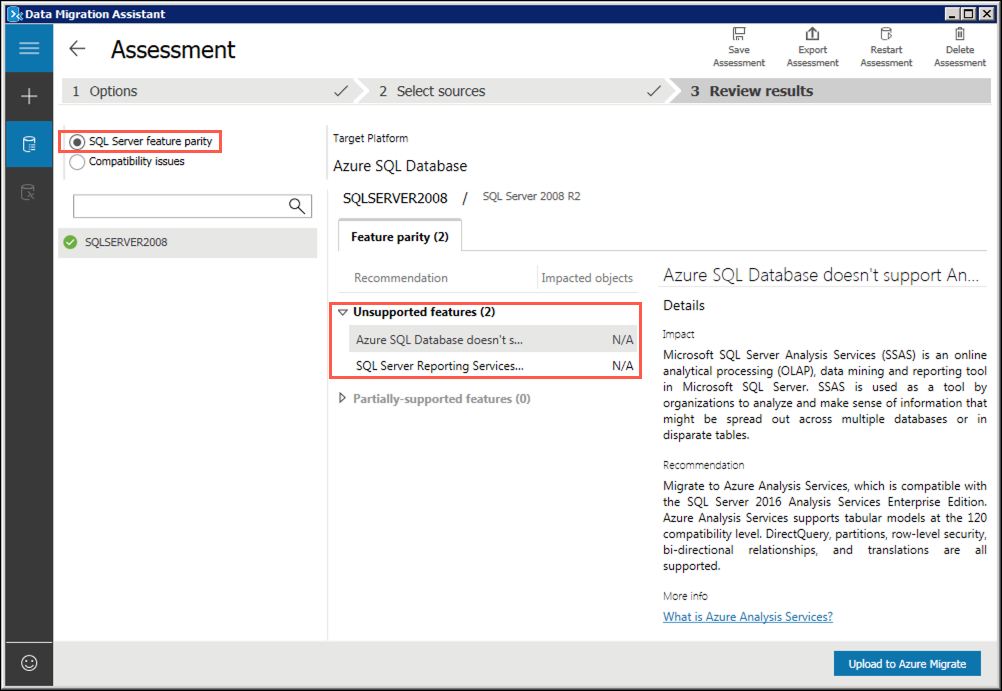
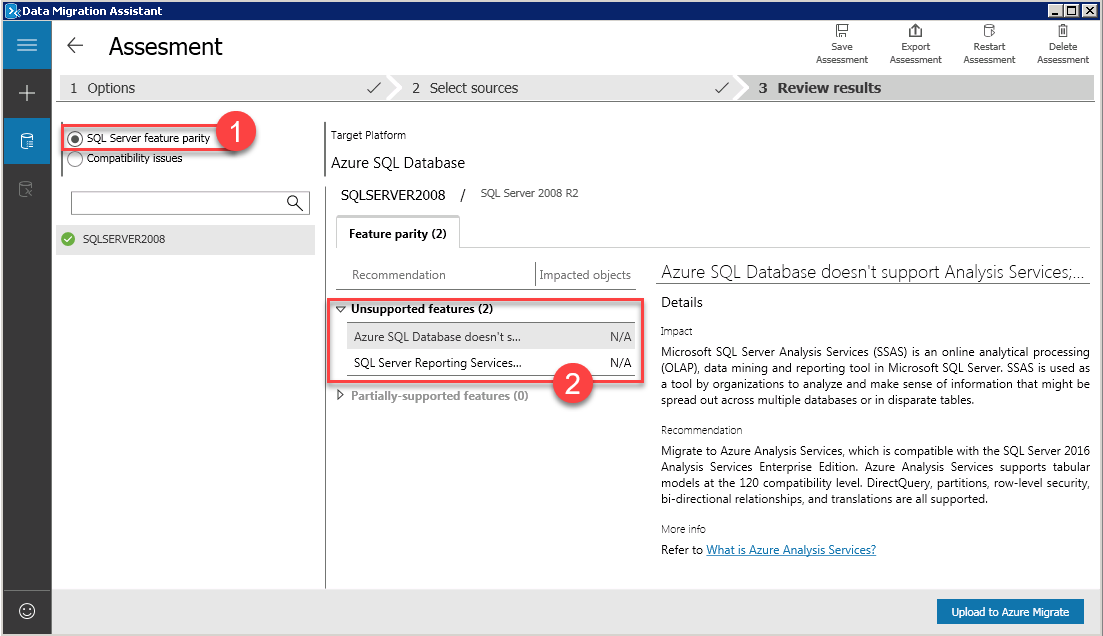
Azure Migrate Database Assessment Complete

Changed region(s): [[0.0, 0.0, 1.0, 1.0]]

diff --git a/Hands-on lab/HOL step-by-step - App modernization.md b/Hands-on lab/HOL step-by-step - App modernization.md
@@ -238,119 +238,23 @@ The first step for Parts Unlimited is to assess whether their apps have dependen
 
 ![Azure Migrate shows web app assessment and migration reports.](media/azure-migrate-web-app-migration-done.png)
 
-## Exercise 1: Migrate the on-premises database to Azure SQL Database
+## Exercise 3: Migrate the On-Premises Database to Azure SQL Database
 
-Duration: 45 minutes
+Duration: {TODO} minutes
 
-In this exercise, you use the Microsoft Data Migration Assistant (DMA) to assess the `ContosoInsurance` database for a migration to Azure SQL Database. The assessment generates a report detailing any feature parity and compatibility issues between the on-premises database and Azure SQL Database.
+The next step of Part Unlimited's migration project is the assessment and migration of its database. Currently, the database lives on a SQL Server 2008 R2 on a virtual machine. You will use an **Azure Migrate: Database Assessment** tool called **Microsoft Data Migration Assistant (DMA)** to assess the `PartsUnlimited` database for a migration to Azure SQL Database. The assessment generates a report detailing any feature parity and compatibility issues between the on-premises database and Azure SQL Database. After the assessment, you will use an **Azure Migrate: Database Migration** service called **Azure Database Migration Service (DMS)**. During the exercise, you will use a simulated on-premises environment hosted in virtual machines running on Azure.
 
-> DMA helps you upgrade to a modern data platform by detecting compatibility issues that can impact database functionality on your new version of SQL Server or Azure SQL Database. DMA recommends performance and reliability improvements for your target environment and allows you to move your schema, data, and uncontained objects from your source server to your target server. To learn more, read the [Data Migration Assistant documentation](https://docs.microsoft.com/sql/dma/dma-overview?view=azuresqldb-mi-current).
+### Task 1: Perform assessment for migration to Azure SQL Database
 
-### Task 1: Configure the ContosoInsurance database on the SqlServer2008 VM
+Parts Unlimited would like an assessment to see what potential issues they might need to address in moving their database to Azure SQL Database. In this task, you will use the [Microsoft Data Migration Assistant](https://docs.microsoft.com/sql/dma/dma-overview?view=sql-server-2017) (DMA) to assess the `PartsUnlimited` database against Azure SQL Database (Azure SQL DB). Data Migration Assistant (DMA) enables you to upgrade to a modern data platform by detecting compatibility issues that can impact database functionality on your new version of SQL Server or Azure SQL Database. It recommends performance and reliability improvements for your target environment. The assessment generates a report detailing any feature parity and compatibility issues between the on-premises database and the Azure SQL DB service.
 
-Before you begin the assessment, you need to configure the `ContosoInsurance` database on your SQL Server 2008 R2 instance. In this task, you execute a SQL script against the `ContosoInsurance` database on the SQL Server 2008 R2 instance.
+> **Note**: The Database Migration Assistant is already installed on your SqlServer2008 VM. It can be downloaded through Azure Migrate or from the [Microsoft Download Center](https://go.microsoft.com/fwlink/?linkid=2090807) as well.
+
+1. Connect to your SqlServer2008 VM with RDP. Your credentials are the same as the WebVM.
+
+2. Launch DMA from the Windows Start menu by typing "data migration" into the search bar, and then selecting **Microsoft Data Migration Assistant** in the search results.
 
 > **Note**: There is a known issue with screen resolution when using an RDP connection to Windows Server 2008 R2, which may affect some users. This issue presents itself as very small, hard to read text on the screen. The workaround for this is to use a second monitor for the RDP display, which should allow you to scale up the resolution to make the text larger.
-
-1. In the [Azure portal](https://portal.azure.com), navigate to your **SqlServer2008** VM by selecting **Resource groups** from Azure services list, selecting the **hands-on-lab-SUFFIX** resource group, and selecting the **SqlServer2008** VM from the list of resources.
-
-   ![The SqlServer2008 virtual machine is highlighted in the list of resources.](media/resources-sql-server-2008-vm.png "SQL Server 2008 VM")
-
-2. On the SqlServer2008 Virtual Machine's **Overview** blade, select **Connect** and **RDP** on the top menu.
-
-   ![The SqlServer2008 VM blade is displayed, with the Connect button highlighted in the top menu.](./media/connect-vm-rdp.png "Connect to SqlServer2008 VM")
-
-3. On the Connect to virtual machine blade, select **Download RDP File**, then open the downloaded RDP file.
-
-4. Select **Connect** on the Remote Desktop Connection dialog.
-
-   ![In the Remote Desktop Connection Dialog Box, the Connect button is highlighted.](./media/remote-desktop-connection-sql-2008.png "Remote Desktop Connection dialog")
-
-5. Enter the following credentials when prompted, and then select **OK**:
-
-   - **Username**: demouser
-   - **Password**: Password.1!!
-
-   ![The credentials specified above are entered into the Enter your credentials dialog.](media/rdc-credentials-sql-2008.png "Enter your credentials")
-
-6. Select **Yes** to connect, if prompted that the identity of the remote computer cannot be verified.
-
-   ![In the Remote Desktop Connection dialog box, a warning states that the identity of the remote computer cannot be verified, and asks if you want to continue anyway. At the bottom, the Yes button is circled.](./media/remote-desktop-connection-identity-verification-sqlserver2008.png "Remote Desktop Connection dialog")
-
-7. Once logged into the SqlServer2008 VM, open **Microsoft SQL Server Management Studio** (SSMS) by entering "sql server" into the search bar in the Windows Start menu and selecting **Microsoft SQL Server Management Studio 17** from the results.
-
-   ![SQL Server is entered into the Windows Start menu search box, and Microsoft SQL Server Management Studio 17 is highlighted in the search results.](media/start-menu-ssms-17.png "Windows start menu search")
-
-8. In the SSMS **Connect to Server** dialog, enter **SQLSERVER2008** into the Server name box, ensure **Windows Authentication** is selected, and then select **Connect**.
-
-   ![The SQL Server Connect to Search dialog is displayed, with SQLSERVER2008 entered into the Server name and Windows Authentication selected.](media/sql-server-2008-connect-to-server.png "Connect to Server")
-
-9. Once connected, expand **Databases** under SQLSERVER2008 in the Object Explorer, and then select **ContosoInsurance** from the list of databases.
-
-   ![The ContosoInsurance database is highlighted in the list of databases.](media/ssms-databases.png "Databases")
-
-10. Next, you execute a script in SSMS, which resets the `sa` password, enable mixed mode authentication, create the `WorkshopUser` account, and change the database recovery model to FULL. To create the script, open a new query window in SSMS by selecting **New Query** in the SSMS toolbar.
-
-    ![The New Query button is highlighted in the SSMS toolbar.](media/ssms-new-query.png "SSMS Toolbar")
-
-11. Copy and paste the SQL script below into the new query window:
-
-    ```sql
-    USE master;
-    GO
-
-    -- SET the sa password
-    ALTER LOGIN [sa] WITH PASSWORD=N'Password.1!!';
-    GO
-
-    -- Enable Mixed Mode Authentication
-    EXEC xp_instance_regwrite N'HKEY_LOCAL_MACHINE',
-    N'Software\Microsoft\MSSQLServer\MSSQLServer', N'LoginMode', REG_DWORD, 2;
-    GO
-
-    -- Create a login and user named WorkshopUser
-    CREATE LOGIN WorkshopUser WITH PASSWORD = N'Password.1!!';
-    GO
-
-    EXEC sp_addsrvrolemember
-        @loginame = N'WorkshopUser',
-        @rolename = N'sysadmin';
-    GO
-
-    USE ContosoInsurance;
-    GO
-
-    IF NOT EXISTS (SELECT * FROM sys.database_principals WHERE name = N'WorkshopUser')
-    BEGIN
-        CREATE USER [WorkshopUser] FOR LOGIN [WorkshopUser]
-        EXEC sp_addrolemember N'db_datareader', N'WorkshopUser'
-    END;
-    GO
-
-    -- Update the recovery model of the database to FULL
-    ALTER DATABASE ContosoInsurance SET RECOVERY FULL;
-    GO
-    ```
-
-12. To run the script, select **Execute** from the SSMS toolbar.
-
-    ![The Execute button is highlighted in the SSMS toolbar.](media/ssms-execute.png "SSMS Toolbar")
-
-13. For Mixed Mode Authentication and the new `sa` password to take effect, you must restart the SQL Server (MSSQLSERVER) Service on the SqlServer2008 VM. To do this, you can use SSMS. Right-click the SQLSERVER2008 instance in the SSMS Object Explorer, and then select **Restart** from the context menu.
-
-    ![In the SSMS Object Explorer, the context menu for the SQLSERVER2008 instance is displayed, and Restart is highlighted.](media/ssms-object-explorer-restart-sqlserver2008.png "Object Explorer")
-
-14. When prompted about restarting the MSSQLSERVER service, select **Yes**. The service takes a few seconds to restart.
-
-    ![The Yes button is highlighted on the dialog asking if you are sure you want to restart the MSSQLSERVER service.](media/ssms-restart-service.png "Restart MSSQLSERVER service")
-
-### Task 2: Perform assessment for migration to Azure SQL Database
-
-Contoso would like an assessment to see what potential issues they might need to address in moving their database to Azure SQL Database. In this task, you use the [Microsoft Data Migration Assistant](https://docs.microsoft.com/sql/dma/dma-overview?view=sql-server-2017) (DMA) to perform an assessment of the `ContosoInsurance` database against Azure SQL Database (Azure SQL DB). Data Migration Assistant (DMA) enables you to upgrade to a modern data platform by detecting compatibility issues that can impact database functionality on your new version of SQL Server or Azure SQL Database. It recommends performance and reliability improvements for your target environment. The assessment generates a report detailing any feature parity and compatibility issues between the on-premises database and the Azure SQL DB service.
-
-> **Note**: The Database Migration Assistant has already been installed on your SqlServer2008 VM. It can also be downloaded from the [Microsoft Download Center](https://www.microsoft.com/download/details.aspx?id=53595).
-
-1. On the SqlServer2008 VM, launch DMA from the Windows Start menu by typing "data migration" into the search bar, and then selecting **Microsoft Data Migration Assistant** in the search results.
 
    ![In the Windows Start menu, "data migration" is entered into the search bar, and Microsoft Data Migration Assistant is highlighted in the Windows start menu search results.](media/windows-start-menu-dma.png "Data Migration Assistant")
 
@@ -358,53 +262,74 @@ Contoso would like an assessment to see what potential issues they might need to
 
    ![The new project icon is highlighted in DMA.](media/dma-new.png "New DMA project")
 
-3. In the New project pane, set the following:
+3. In the New project pane, set the name of the project **(1)** and make sure the following value are selected:
 
    - **Project type**: Select Assessment.
-   - **Project name**: Enter Assessment.
    - **Assessment type**: Select Database Engine.
    - **Source server type**: Select SQL Server.
    - **Target server type**: Select Azure SQL Database.
 
    ![New project settings for doing an assessment of a migration from SQL Server to Azure SQL Database.](media/dma-new-project-to-azure-sql-db.png "New project settings")
 
-4. Select **Create**.
+4. Select **Create (2)**.
 
-5. On the **Options** screen, ensure **Check database compatibility** and **Check feature parity** are both checked, and then select **Next**.
+5. On the **Options** screen, ensure **Check database compatibility (1)** and **Check feature parity (1)** are both checked, and then select **Next (2)**.
 
    ![Check database compatibility and check feature parity are checked on the Options screen.](media/dma-options.png "DMA options")
 
 6. On the **Sources** screen, enter the following into the **Connect to a server** dialog that appears on the right-hand side:
 
-   - **Server name**: Enter **SQLSERVER2008**.
-   - **Authentication type**: Select **SQL Server Authentication**.
-   - **Username**: Enter **WorkshopUser**
-   - **Password**: Enter **Password.1!!**
-   - **Encrypt connection**: Check this box.
-   - **Trust server certificate**: Check this box.
+   - **Server name (1)**: Enter **SQLSERVER2008**.
+   - **Authentication type (2)**: Select **SQL Server Authentication**.
+   - **Username (3)**: Enter **PUWebSite**
+   - **Password (4)**: Enter **{YOUR-ADMIN-PASSWORD}**
+   - **Encrypt connection**: Check this box if not checked.
+   - **Trust server certificate (5)**: Check this box.
 
    ![In the Connect to a server dialog, the values specified above are entered into the appropriate fields.](media/dma-connect-to-a-server.png "Connect to a server")
 
-7. Select **Connect**.
+7. Select **Connect (6)**.
 
-8. On the **Add sources** dialog that appears next, check the box for `ContosoInsurance` and select **Add**.
+8. On the **Add sources** dialog that appears next, check the box for `PartsUnlimited` **(1)** and select **Add (2)**.
 
-   ![The ContosoInsurance box is checked on the Add sources dialog.](media/dma-add-sources.png "Add sources")
+   ![The PartsUnlimited box is checked on the Add sources dialog.](media/dma-add-sources.png "Add sources")
 
 9. Select **Start Assessment**.
 
    ![Start assessment](media/dma-start-assessment-to-azure-sql-db.png "Start assessment")
 
-10. Take a moment to review the assessment for migrating to Azure SQL DB. The SQL Server feature parity report shows that Analysis Services and SQL Server Reporting Services are unsupported, but these do not affect any objects in the `ContosoInsurance` database, so won't block a migration.
+10. Take a moment to review the assessment for migrating to Azure SQL DB. The SQL Server feature parity report **(1)** shows that Analysis Services and SQL Server Reporting Services are unsupported **(2)**, but these do not affect any objects in the `PartsUnlimited` database, so won't block a migration.
 
     ![The feature parity report is displayed, and the two unsupported features are highlighted.](media/dma-feature-parity-report.png "Feature parity")
 
-11. Now, select **Compatibility issues** so you can review that report as well.
+11. Now, select **Compatibility issues (1)** so you can review that report as well.
 
     ![The Compatibility issues option is selected and highlighted.](media/dma-compatibility-issues.png "Compatibility issues")
 
-> The DMA assessment for a migrating the `ContosoInsurance` database to a target platform of Azure SQL DB reveals that there are no issues or features preventing Contoso from migrating their database to Azure SQL DB. You can select **Export Assessment** at the top right to save the report as a JSON file, if desired.
+The DMA assessment for migrating the `PartsUnlimited` database to a target platform of Azure SQL DB reveals that no issues or features are preventing Parts Unlimited from migrating their database to Azure SQL DB. 
 
+12. Select **Upload to Azure Migrate** to upload assessment results to Azure.
+
+    ![Upload to Azure Migrate button is highlighted.](media/dma-upload-azure-migrate.png)
+
+13. Select the right Azure environment **(1)** your subscription lives. Select **Connect (2)** to proceed to the Azure login screen. 
+
+    ![Azure is selected as the Azure Environment on the connect to Azure screen. Connect button is highlighted.](media/dma-azure-migrate-upload.png)
+    
+14. Select your subscription **(2)** and the `partsunlimited` Azure Migrate project **(3)**. Select **Upload (4)** to start the upload to Azure.
+
+    ![Upload to Azure Migrate page is open. Lab subscription and partsunlimited Azure Migrate Project are selected. Upload button is highlighted.](media/dma-azure-migrate-upload-2.png)
+    
+> If you encounter the Strong Authentication required you might not see some of your subscription because of MFA limitatations. You should still be able to see your lab subscription.
+
+15. Once the upload is complete select **OK** and navigate to the Azure Migrate page on the Azure Portal.
+
+    ![Assessment Uplaoded dialog shown.](media/dma-upload-complete.png)
+    
+16. Select the **Databases (1)** page on Azure Migrate. Observe the number of assessed database instances **(2)** and the number of databases ready for Azure SQL DB **(2)**.
+
+    ![Azure Migrate Databases page is open. The number of assessed database instances and the number of databases ready for Azure SQL DB shows one.](media/dma-azure-migrate-web.png)
+    
 ### Task 3: Migrate the database schema using the Data Migration Assistant
 
 After you have reviewed the assessment results and you have ensured the database is a candidate for migration to Azure SQL Database, use the Data Migration Assistant to migrate the schema to Azure SQL Database.
